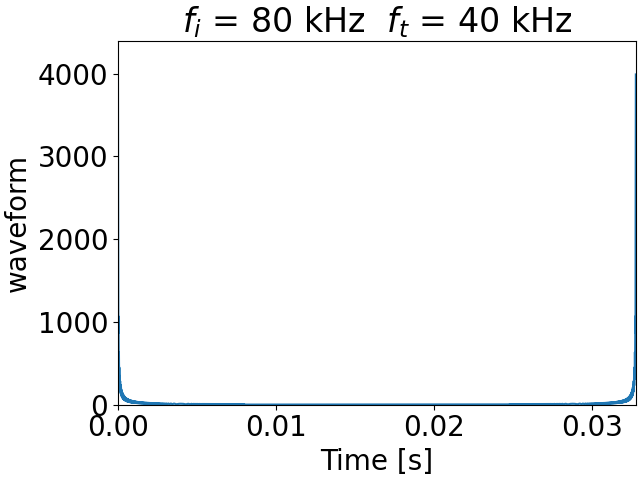
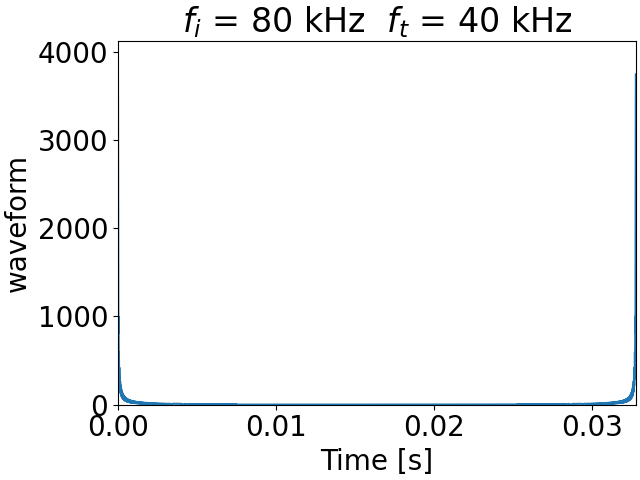
change parameter

diff --git a/Simulation/LPM/Robot_LPM＋CF.py b/Simulation/LPM/Robot_LPM＋CF.py
@@ -24,8 +24,8 @@ def Initialize():
     Amplitude = 32767. / 2.   #pulse Amplitude: 
     Fi = 80000    #: initial frequency [Hz]
     Ft = 40000  #: terminal frequency [Hz]
-    Duration =0.008 #LPM_duration [s]
-    Duration_CF =0.002 # CF_duration [s]
+    Duration =0.0075 #LPM_duration [s]
+    Duration_CF =0.0025 # CF_duration [s]
     Duration_mimic=0.01#mimicFM_duration[s]
     BatcallConstant=0.005#パラメータ
     draw_tx_spc_flg=True
